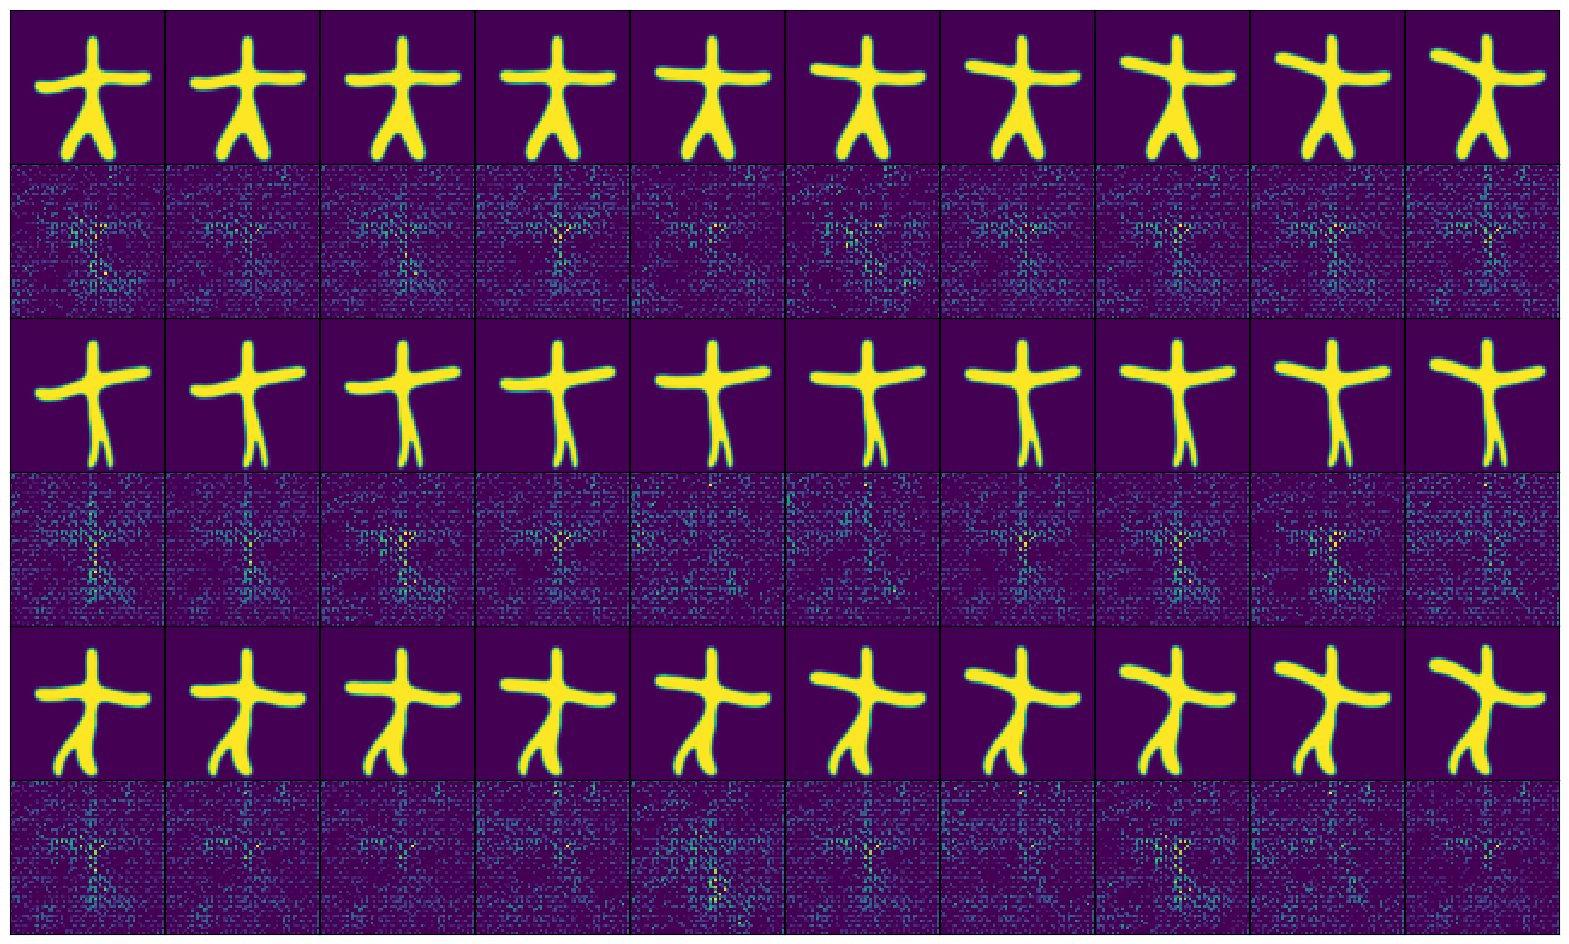
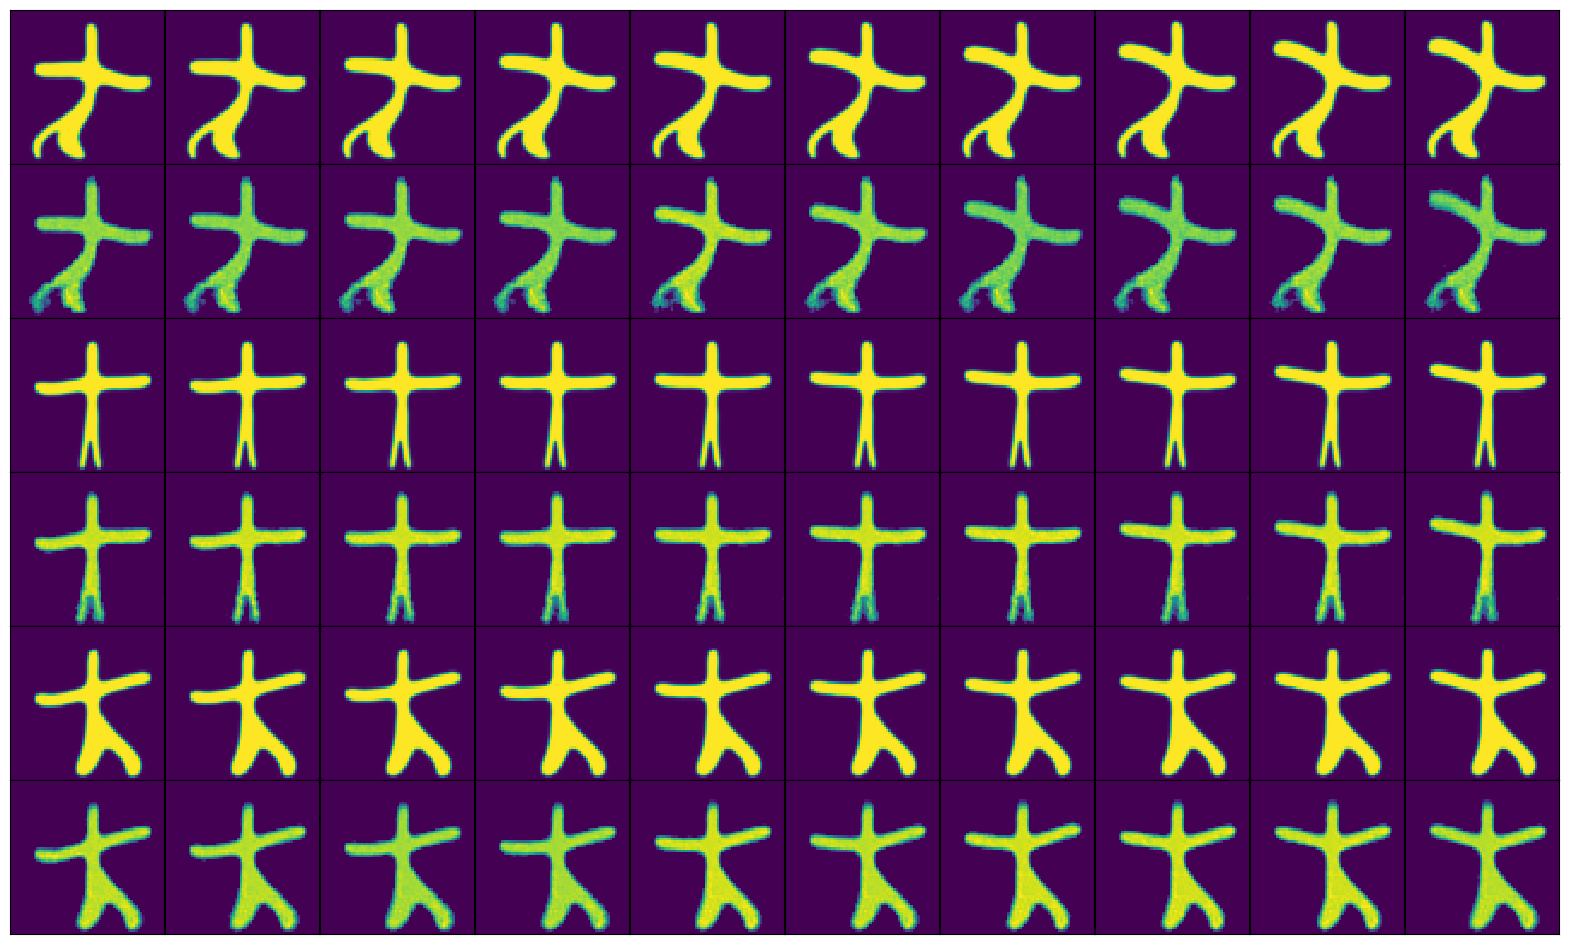
2023-4-9

Changed region(s): [[0.0, 0.3686, 0.9994, 1.0], [0.0, 0.0307, 0.9994, 0.3379]]

diff --git a/5_fold_load.py b/5_fold_load.py
@@ -24,11 +24,15 @@ logger.addHandler(ch)
 
 device = torch.device("cuda:0" if torch.cuda.is_available() else "cpu")
 
-model_class_0 = ['starmen']
-model_class_1 = ['ML_VAE', 'rank_VAE']
-model_class_2 = ['LNE']
-model_class_3 = ['Riem_VAE']
-model_class_4 = ['beta_VAE']
+# recon class
+ae_disen_recon_class = ['starmen']
+vae_disen_recon_class = ['ML_VAE', 'rank_VAE']
+vae_no_disen_recon_class = ['beta_VAE', 'Riem_VAE']
+model_class = ['LNE']
+
+# pred class
+vae_pred_class = ['ML_VAE', 'rank_VAE', 'beta_VAE']
+align_pred_class = ['starmen', 'Riem_VAE']
 
 
 def expand_vector(vec, missing_num, num_subject):
@@ -42,24 +46,24 @@ def expand_vector(vec, missing_num, num_subject):
     return vec
 
 
-def get_reconstruction_loss(input_, model_name):
-    if model_name in model_class_0:
+def get_reconstruction(input_, model_name):
+    if model_name in ae_disen_recon_class:
         reconstructed, z, zu, zv = autoencoder.forward(input_)
         reconstruction_loss = autoencoder.loss(input_, reconstructed)
 
-    if model_name in model_class_1:
+    if model_name in vae_disen_recon_class:
         zs_mu, zs_logVar, zpsi_mu, zpsi_logVar, zs_encoded, zpsi_encoded = autoencoder.forward(input_)
         zu, zv, z = zpsi_encoded, zs_encoded, None
         encoded = torch.cat((zs_encoded, zpsi_encoded), dim=1)
         reconstructed = autoencoder.decoder(encoded)
         reconstruction_loss, zs_kl_loss = autoencoder.loss(zs_mu, zs_logVar, input_, reconstructed)
 
-    if model_name in model_class_2:
+    if model_name in model_class:
         zu, zv = None, None
         z, reconstructed = autoencoder.forward(input_)
         reconstruction_loss = autoencoder.compute_recon_loss(input_, reconstructed) * 64 * 64
 
-    if model_name in model_class_4:
+    if model_name in vae_no_disen_recon_class:
         zu, zv = None, None
         z, logVar, reconstructed = autoencoder.forward(input_)
         reconstruction_loss, _ = autoencoder.loss(z, logVar, reconstructed, input_)
@@ -77,7 +81,7 @@ def get_pred_loss(image, model_name, missing_num=6):
     input_0 = Variable(image0).to(autoencoder.device)
     input_1 = Variable(image1).to(autoencoder.device)
 
-    if model_name in model_class_0:
+    if model_name in align_pred_class:
         # arange data
         age = pd.DataFrame(data[3].cpu().detach(), columns=['age'])
         baseline_age = pd.DataFrame(data[2].cpu().detach(), columns=['baseline_age'])
@@ -87,27 +91,30 @@ def get_pred_loss(image, model_name, missing_num=6):
         X, Y = Variable(X).to(autoencoder.device).float(), Variable(Y).to(autoencoder.device).float()
         X0, X1 = X[idx0], X[idx1]
         Y0, Y1 = Y[idx0], Y[idx1]
-        # get z, zu, zv
-        z0 = autoencoder.encoder(input_0)
-        zu0, zv0 = torch.matmul(z0, autoencoder.U), torch.matmul(z0, autoencoder.V)
-        # get b
-        yt = torch.transpose(Y0, 0, 1)
-        yty = torch.matmul(yt, Y0)
-        yt_zv = torch.matmul(yt, zv0)
-        xbeta = torch.matmul(X0, autoencoder.beta)
-        yt_z_xbeta = torch.matmul(yt, z0 - xbeta)
-        b = torch.matmul(
-            torch.inverse((autoencoder.sigma0_2 + autoencoder.sigma2_2) * yty - 2 * autoencoder.sigma0_2
-                          * autoencoder.sigma2_2 * torch.eye(yty.size()[0], device=autoencoder.device)),
-            autoencoder.sigma2_2 * yt_z_xbeta + autoencoder.sigma0_2 * yt_zv
-        )
-        # get z1 and loss
-        z1 = torch.matmul(X1, autoencoder.beta) + torch.matmul(Y1, b)
-        predicted = autoencoder.decoder(z1)
+        if model_name == 'starmen':
+            # get z, zu, zv
+            z0 = autoencoder.encoder(input_0)
+            zu0, zv0 = torch.matmul(z0, autoencoder.U), torch.matmul(z0, autoencoder.V)
+            # get b
+            yt = torch.transpose(Y0, 0, 1)
+            yty = torch.matmul(yt, Y0)
+            yt_zv = torch.matmul(yt, zv0)
+            xbeta = torch.matmul(X0, autoencoder.beta)
+            yt_z_xbeta = torch.matmul(yt, z0 - xbeta)
+            b = torch.matmul(
+                torch.inverse((autoencoder.sigma0_2 + autoencoder.sigma2_2) * yty - 2 * autoencoder.sigma0_2
+                              * autoencoder.sigma2_2 * torch.eye(yty.size()[0], device=autoencoder.device)),
+                autoencoder.sigma2_2 * yt_z_xbeta + autoencoder.sigma0_2 * yt_zv
+            )
+            # get z1 and loss
+            z1 = torch.matmul(X1, autoencoder.beta) + torch.matmul(Y1, b)
+            predicted = autoencoder.decoder(z1)
+        if model_name == 'Riem_VAE':
+            
         return autoencoder.loss(predicted, input_1)
 
-    if model_name in model_class_1 + model_class_4:
-        if model_name in model_class_1:
+    if model_name in vae_pred_class:
+        if model_name in vae_disen_recon_class:
             zs_mu, zs_logVar, zpsi_mu, zpsi_logVar, zs_encoded, zpsi_encoded = autoencoder.forward(input_0)
             if missing_num > 5:
                 zs_mu, zs_logVar = expand_vector(zs_mu, missing_num, num_subject), expand_vector(zs_logVar, missing_num, num_subject)
@@ -116,7 +123,7 @@ def get_pred_loss(image, model_name, missing_num=6):
             zpsi_encoded = autoencoder.reparametrize(zpsi_mu, zpsi_logVar)
             encoded = torch.cat((zs_encoded, zpsi_encoded), dim=1)
 
-        if model_name in model_class_4:
+        if model_name in vae_no_disen_recon_class:
             z, logVar, reconstructed = autoencoder.forward(input_0)
             if missing_num > 5:
                 z, logVar = expand_vector(z, missing_num, num_subject), expand_vector(logVar, missing_num, num_subject)
@@ -142,7 +149,7 @@ if __name__ == '__main__':
         logger.info(f"##### Fold {fold + 1}/5 #####\n")
 
         # load the model
-        model_name = 'rank_VAE'
+        model_name = 'Riem_VAE'
         autoencoder = torch.load('5-fold/{}/{}_fold_{}'.format(model_name, fold, model_name), map_location=device)
         autoencoder.device = device
         autoencoder.Training = False
@@ -156,9 +163,9 @@ if __name__ == '__main__':
 
         Dataset = Dataset_starmen
         train = Dataset(train_data['path'], train_data['subject'], train_data['baseline_age'], train_data['age'],
-                        train_data['timepoint'], train_data['first_age'])
+                        train_data['timepoint'], train_data['first_age'], train_data['alpha'])
         test = Dataset(test_data['path'], test_data['subject'], test_data['baseline_age'], test_data['age'],
-                       test_data['timepoint'], test_data['first_age'])
+                       test_data['timepoint'], test_data['first_age'], test_data['alpha'])
 
         train_loader = torch.utils.data.DataLoader(train, batch_size=256, shuffle=False,
                                                    num_workers=0, drop_last=False, pin_memory=True)
@@ -174,7 +181,7 @@ if __name__ == '__main__':
                 image = torch.tensor([[np.load(path)] for path in data[0]], device=autoencoder.device).float()
                 input_ = Variable(image).to(autoencoder.device)
 
-                reconstruction_loss, zu, zv, z = get_reconstruction_loss(input_, model_name)
+                reconstruction_loss, zu, zv, z = get_reconstruction(input_, model_name)
                 loss = reconstruction_loss
 
                 # store ZU, ZV
@@ -199,18 +206,18 @@ if __name__ == '__main__':
                 image = torch.tensor([[np.load(path)] for path in data[0]], device=autoencoder.device).float()
                 input_ = Variable(image).to(autoencoder.device)
 
-                reconstruction_loss, zu, zv, z = get_reconstruction_loss(input_, model_name)
+                reconstruction_loss, zu, zv, z = get_reconstruction(input_, model_name)
                 loss = reconstruction_loss
                 losses += float(loss)
 
                 # store ZU, ZV
-                if model_name in model_class_0 + model_class_1:
+                if model_name in ae_disen_recon_class + vae_disen_recon_class:
                     if ZU is None:
                         ZU, ZV = zu, zv
                     else:
                         ZU = torch.cat((ZU, zu), 0)
                         ZV = torch.cat((ZV, zv), 0)
-                if model_name in model_class_2 + model_class_4:
+                if model_name in model_class + vae_no_disen_recon_class:
                     if ZU is None:
                         ZU = z
                     else:

diff --git a/model.py b/model.py
@@ -2285,8 +2285,8 @@ class Riem_VAE(nn.Module):
         self.name = 'Riem_VAE'
         self.device = torch.device("cuda:0" if torch.cuda.is_available() else "cpu")
         self.fold = None
-        self.beta = 5.
-        self.gamma = 5.
+        self.beta = 2.
+        self.gamma = 3.
 
         self.conv1 = nn.Conv2d(1, 16, 3, stride=2, padding=1)  # 16 x 32 x 32
         self.conv2 = nn.Conv2d(16, 32, 3, stride=2, padding=1)  # 32 x 16 x 16
@@ -2305,7 +2305,7 @@ class Riem_VAE(nn.Module):
         self.bn5 = nn.BatchNorm2d(32)
 
         self.X, self.Y = None, None
-        self.omega = torch.normal(mean=0., std=1., size=[N, dim_z], device=self.device).float()
+        self.omega = torch.normal(mean=0., std=1., size=[I, dim_z], device=self.device).float()
         self.sigma_2 = 0.5
 
         self.train_recon_loss, self.test_recon_loss = [], []
@@ -2353,18 +2353,22 @@ class Riem_VAE(nn.Module):
             subject = torch.tensor([[s for s in data[1]]], device=self.device)
             tp = torch.tensor([[tp for tp in data[4]]], device=self.device)
             idx = (subject * 10 + tp).cpu().detach().numpy().squeeze()
-
+            bs = len(idx)
             for i, id in enumerate(idx):
                 if id >= N - self.fold * 2000:
                     idx[i] -= 2000
+            # fixed part
+            alpha = torch.tensor([[a.exp() for a in data[6]]], device=self.device).float().view(bs, -1)
+            delta_age = torch.tensor(self.X[:, 1]).to(self.device).float().view(N, -1)
+            delta_age = delta_age[idx].view(bs, -1)
+            fixed = torch.tanh(torch.mul(delta_age, alpha)).view(bs, -1)
+            fixed = torch.cat((fixed, torch.zeros([alpha.size()[0], dim_z - 1]).to(self.device).float()), dim=1)
+            # random part
+            Y = (self.Y[:, ::2]).to(self.device).float()
+            omega = torch.matmul(Y, self.omega)
+            omega = omega[idx]
 
-            alpha = torch.tensor([[a.exp() for a in data[6]]], device=self.device).float()
-            delta = torch.tensor([[a - ba for a, ba in zip(data[3], data[2])]], device=self.device)
-            fixed = torch.tanh(torch.mul(alpha, delta).squeeze())
-            omega = self.omega[idx]
-            for i, f in enumerate(fixed):
-                omega[i][0] = f
-            return omega
+            return fixed + omega
 
     def train_(self, data_loader, test, optimizer, num_epochs):
         self.to(self.device)
@@ -2466,12 +2470,14 @@ class Riem_VAE(nn.Module):
         return loss
 
     def update_omega(self, Z, alpha):
-        delta = torch.tensor(self.X[:, 1]).to(self.device).float().view(alpha.size())
-        fixed = torch.tanh(torch.mul(delta, alpha))
+        delta_age = torch.tensor(self.X[:, 1]).to(self.device).float().view(alpha.size())
+        fixed = torch.tanh(torch.mul(delta_age, alpha))
         fixed = torch.cat((fixed, torch.zeros([N, dim_z - 1]).to(self.device).float()), dim=1)
-        for i in range(5):
-            self.omega = 1 / (1 - self.sigma_2) * (Z - fixed)
-            self.sigma_2 = 1 / (N * dim_z) * torch.pow(torch.norm(Z - fixed - self.omega, p='fro'), 2)
+        Y = (self.Y[:, ::2]).to(self.device).float()
+        self.omega = torch.matmul(
+            torch.inverse(torch.matmul(Y, torch.transpose(Y, 0, 1)) + torch.eye(Y.size()[0], device=self.device)),
+            torch.matmul(torch.transpose(Y, 0, 1), Z - fixed)
+        )
 
     def plot_recon(self, data, n_subject=3):
         # Plot the reconstruction
